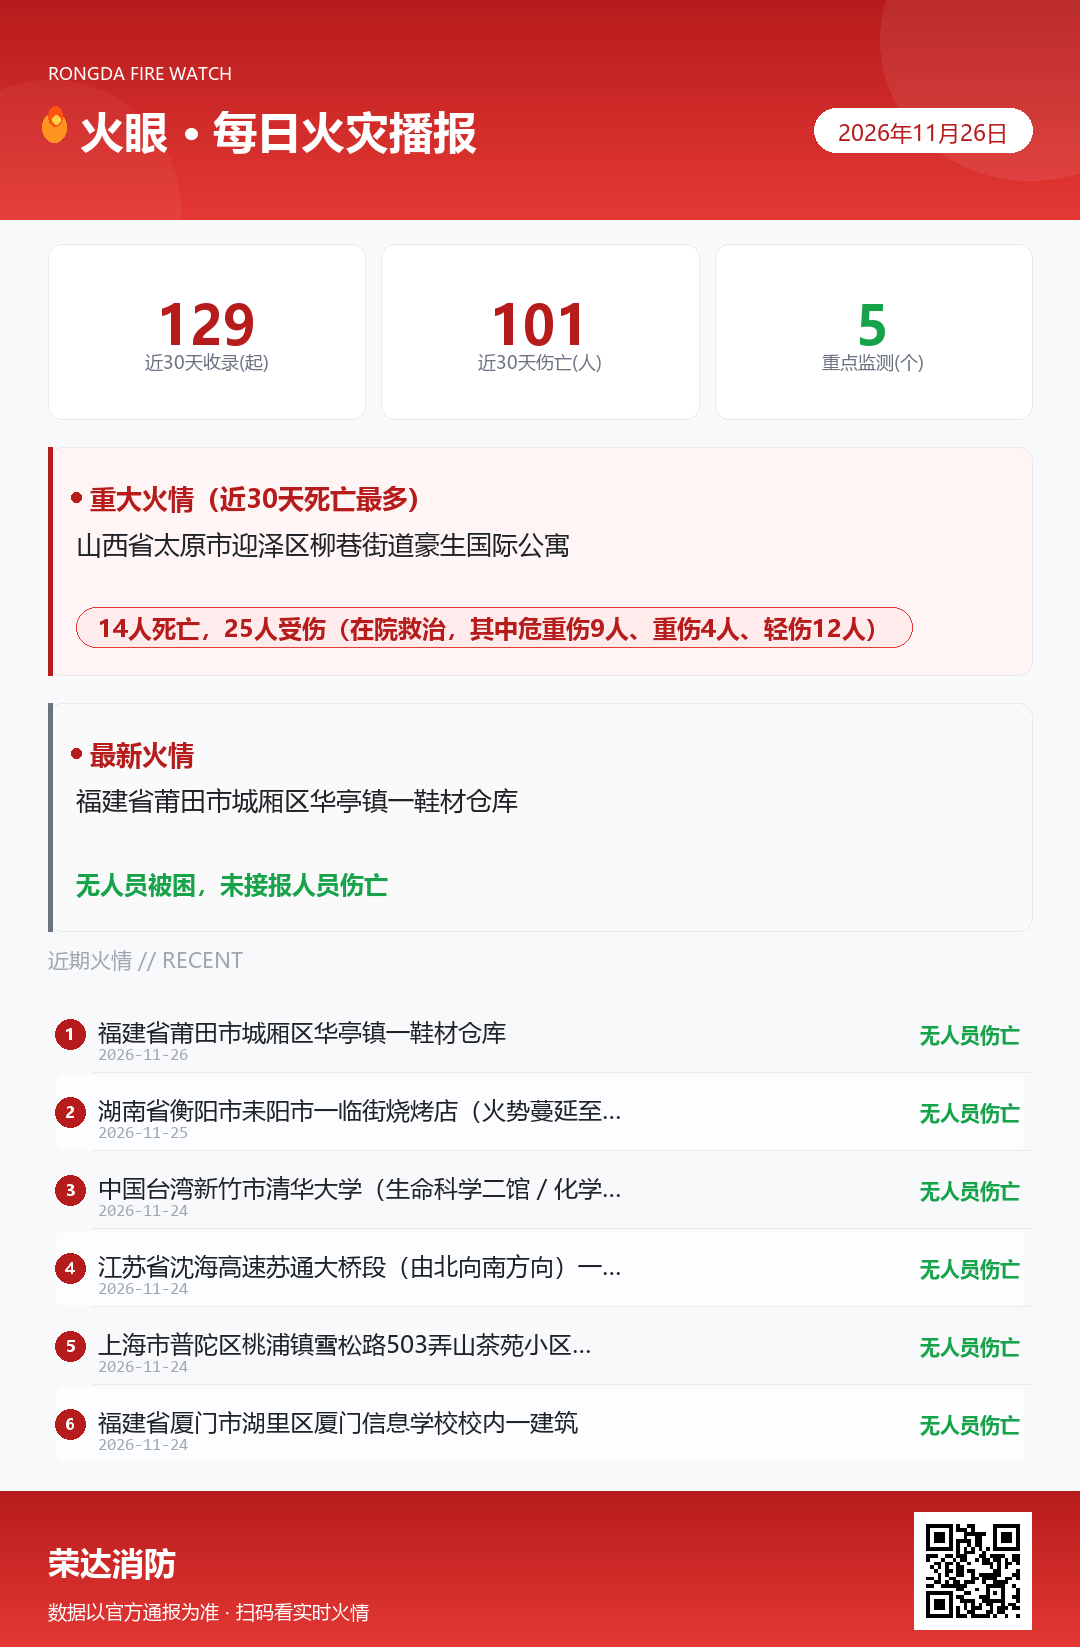
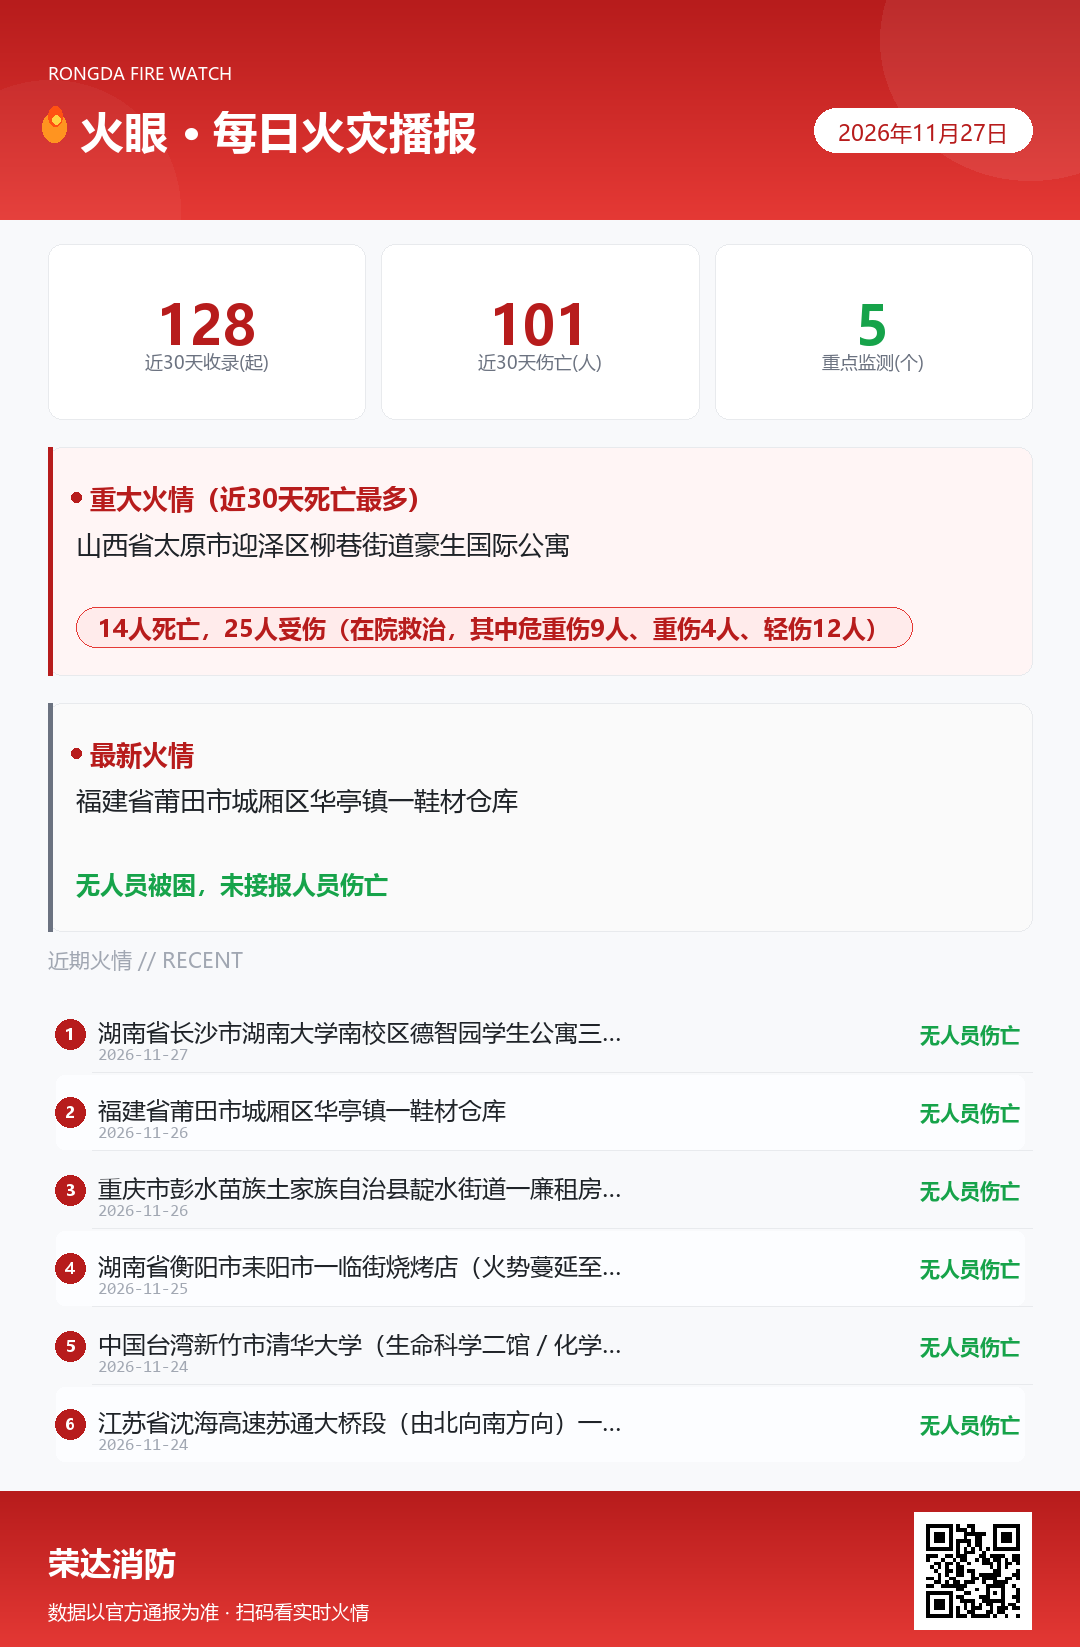
fire-daily-brief 2026-11-27 13:43 roll

diff --git a/index.html b/index.html
@@ -435,8 +435,8 @@
 <!-- ============ DATA（每日自动更新：由自动化脚本重写此对象） ============ -->
 <script id="brief-data" type="application/json">
 {
-  "date": "2026年11月26日",
-  "compileTime": "2026-11-27 00:59",
+  "date": "2026年11月27日",
+  "compileTime": "2026-11-27 13:43",
   "source": "AI 联网检索 · 各地消防救援机构官方通报及权威媒体转载",
   "range": "滚动更新 · 近 30 天",
   "stats": {
@@ -489,6 +489,15 @@
   ],
   "history": [
     {
+      "date": "2026-11-27",
+      "location": "湖南省长沙市湖南大学南校区德智园学生公寓三楼一宿舍房间",
+      "category": "学校/教育机构",
+      "summary": "2026年11月27日凌晨3时左右，湖南大学南校区德智园学生公寓三楼一房间发生火灾，橙红色火焰从窗口向外喷出，并伴随大量浓烟，同楼学生被呼喊声惊醒后疏散。消防人员到场后迅速将火扑灭。当日11时许，湖南大学工作人员向新黄河记者表示，火情已灭，没有人员受伤，受影响学生已被学校妥善安置，具体起火原因仍在调查中。",
+      "casualty": "无人员受伤（校方回应）",
+      "cause": "起火原因正在调查中（湖南大学校方回应）",
+      "src": "新黄河客户端（济南日报报业集团，记者李庆斌，2026-11-27，致电湖南大学校方）；腾讯新闻、网易转载"
+    },
+    {
       "date": "2026-11-26",
       "location": "福建省莆田市城厢区华亭镇一鞋材仓库",
       "category": "仓储/物流",
@@ -496,6 +505,15 @@
       "casualty": "无人员被困，未接报人员伤亡",
       "cause": "起火原因正在调查中（莆田市消防救援局《火情通报》）",
       "src": "莆田市消防救援局《火情通报》（2026-11-26）；新京报（武丹萍）、澎湃新闻、极目新闻转载"
+    },
+    {
+      "date": "2026-11-26",
+      "location": "重庆市彭水苗族土家族自治县靛水街道一廉租房小区（管网施工引发燃气泄漏）",
+      "category": "住宅/民房",
+      "summary": "2026年11月26日16时36分，重庆市彭水苗族土家族自治县靛水街道辖区一廉租房小区因管网施工引发燃气泄漏并起火，相关部门迅速到场处置，16时50分明火被扑灭，无人员伤亡；当日19时40分，涉事区域已恢复供气。靛水街道办事处发布情况通报称，事故调查工作正有序开展中。",
+      "casualty": "无人员伤亡",
+      "cause": "管网施工挖破燃气管道引发燃气泄漏（靛水街道办事处情况通报，事故调查中）",
+      "src": "重庆市彭水苗族土家族自治县靛水街道办事处情况通报（“彭水发布”，2026-11-26）；潇湘晨报晨视频、华商网、中华网转载"
     },
     {
       "date": "2026-11-25",
